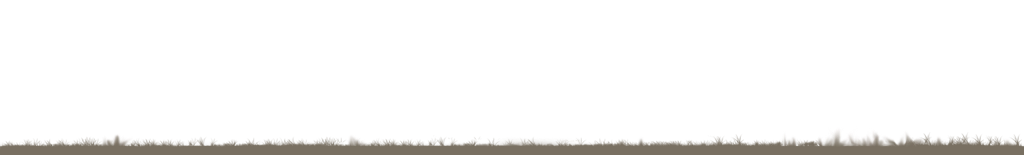
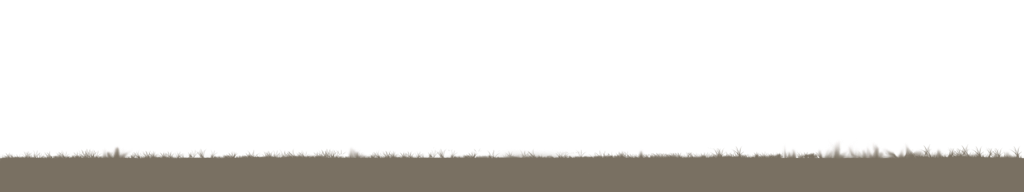
fix on grass

Changed region(s): [[0.0, 0.7484, 1.0, 0.9548]]

diff --git a/css/main.css b/css/main.css
@@ -212,6 +212,15 @@ body {
 	#ntubs-subnav-img-xs {
 		display: block;
 	}
+
+	#ntubs-grass {
+		background-image: url("../img/thin grass.png");
+		background-position: center bottom;
+	}
+
+	#ntubs-subnav-dropdown {
+		margin-top: 5px;
+	}
 }
 
 #ntubs-body {
